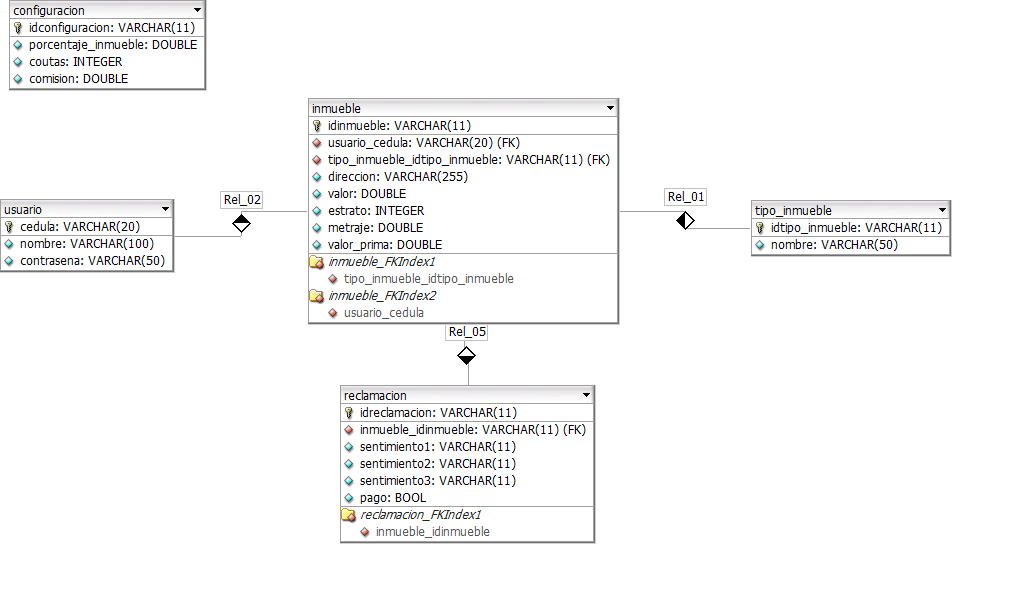
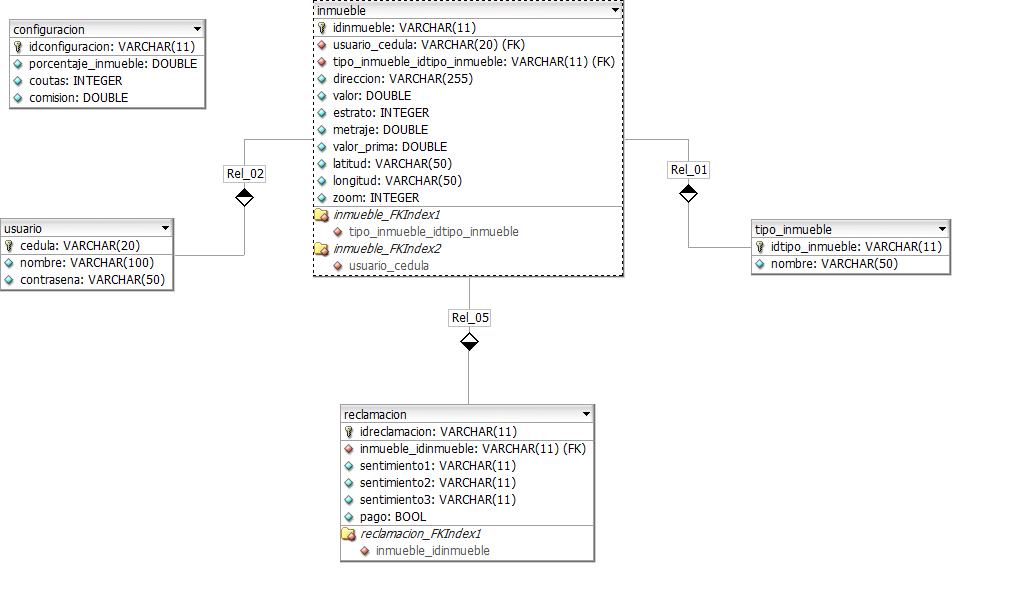
mapa y bd actualizada
Crear clase MOCK para ejemplo de direcciones

diff --git a/mapa.html b/mapa.html
@@ -1,0 +1,113 @@
+<!DOCTYPE html>
+<html>
+  <head>
+    <title>Simple Map</title>
+    <meta name="viewport" content="initial-scale=1.0">
+    <meta charset="utf-8">
+    <style>
+      /* Always set the map height explicitly to define the size of the div
+       * element that contains the map. */
+      #map {
+        height: 50%;
+      }
+      /* Optional: Makes the sample page fill the window. */
+      html, body {
+        height: 100%;
+        margin: 0;
+        padding: 0;
+      }
+    </style>
+  </head>
+  <body>
+    <div id="map"></div>
+
+    <div align="center"> 
+    <form>        
+      <label> Dirección : </label><input type="text" name="address" id="address" value=""/> 
+      <label> Latitud: </label><input type="text" name="lat" id="lat" value=""/> 
+      <br> 
+      <label> Longitud: </label><input type="text" name="lng" id="lng" value=""/> 
+      <br> 
+      <label> Zoom: </label><input type="text" id="zoom" value=""/> 
+      <br> 
+ 
+      <label> Dirección alternativa: </label><input type="text" name="address2" id="address2"/> 
+    </form>
+      </div>
+
+
+    <script src="https://maps.googleapis.com/maps/api/js?key=AIzaSyAbyN0tXtoPDpNlteY_WvvLJCpzMY2Ex88&libraries=places" type="text/javascript"> </script> 
+
+    <script>      
+
+      var  map = new google.maps.Map(document.getElementById('map'), {
+          center: {lat: 4.81465, lng: -75.693488},
+          zoom: 15               
+        });
+      
+      var marker = new google.maps.Marker({
+        position: {lat: 4.81465, lng: -75.693488 },
+        map: map,
+        draggable: true,
+        title:"Arrastrame!"
+      });
+
+
+    var searchBox = new google.maps.places.SearchBox(document.getElementById('address'));
+  
+    google.maps.event.addListener(searchBox,'places_changed',function(){
+    var places = searchBox.getPlaces();
+    var bounds = new google.maps.LatLngBounds();
+    var i, place;
+    for(i=0; place=places[i];i++){
+        bounds.extend(place.geometry.location);
+        marker.setPosition(place.geometry.location);   
+      }
+      map.fitBounds(bounds);
+      map.setZoom(15);
+    });
+  
+    google.maps.event.addListener(marker,'position_changed',function(){
+      var lat = marker.getPosition().lat();                      
+      var lng = marker.getPosition().lng();      
+      document.getElementById("lat").value = lat;
+      document.getElementById("lng").value = lng;      
+      geocodeLatLng(geocoder, map, infowindow);     
+  });
+
+ 
+ map.addListener('zoom_changed', function() {
+    var zoom = map.getZoom();
+    console.log("Zoom: %o", zoom);
+    document.getElementById("zoom").value = zoom;
+  });
+
+ var geocoder = new google.maps.Geocoder;
+ var infowindow = new google.maps.InfoWindow;      
+
+      function geocodeLatLng(geocoder, map, infowindow) {
+        var lat = document.getElementById('lat').value;
+        console.log("Lat: %o", lat);
+        var lng = document.getElementById('lng').value;
+        console.log("Lng: %o", lng);
+        var latlng = {lat: parseFloat(lat), lng: parseFloat(lng)};
+
+        geocoder.geocode({'location': latlng}, function(results, status) {
+          if (status === 'OK') {
+            if (results[1]) {   
+            // window.alert( var_dump(results));      
+            document.getElementById("address2").value = results[0].formatted_address;                                
+             // infowindow.setContent(results[1].formatted_address);
+              //infowindow.open(map, marker);
+            } else {
+              window.alert('No se encontraron resultados');
+            }
+          } else {
+            //window.alert('Geocoder falló debido a: ' + status);
+          }
+        });
+}      
+    </script>
+    
+  </body>
+</html>
